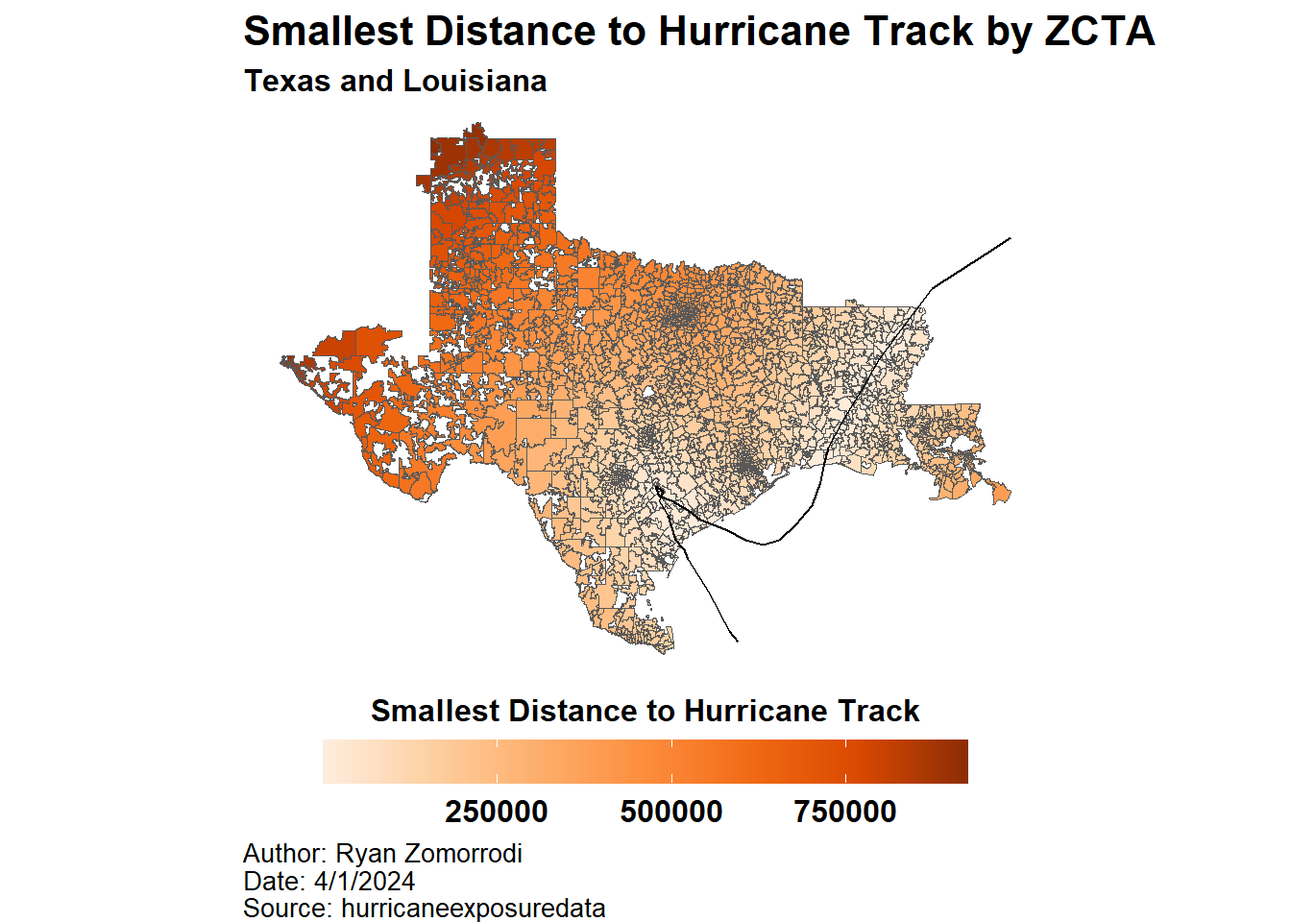
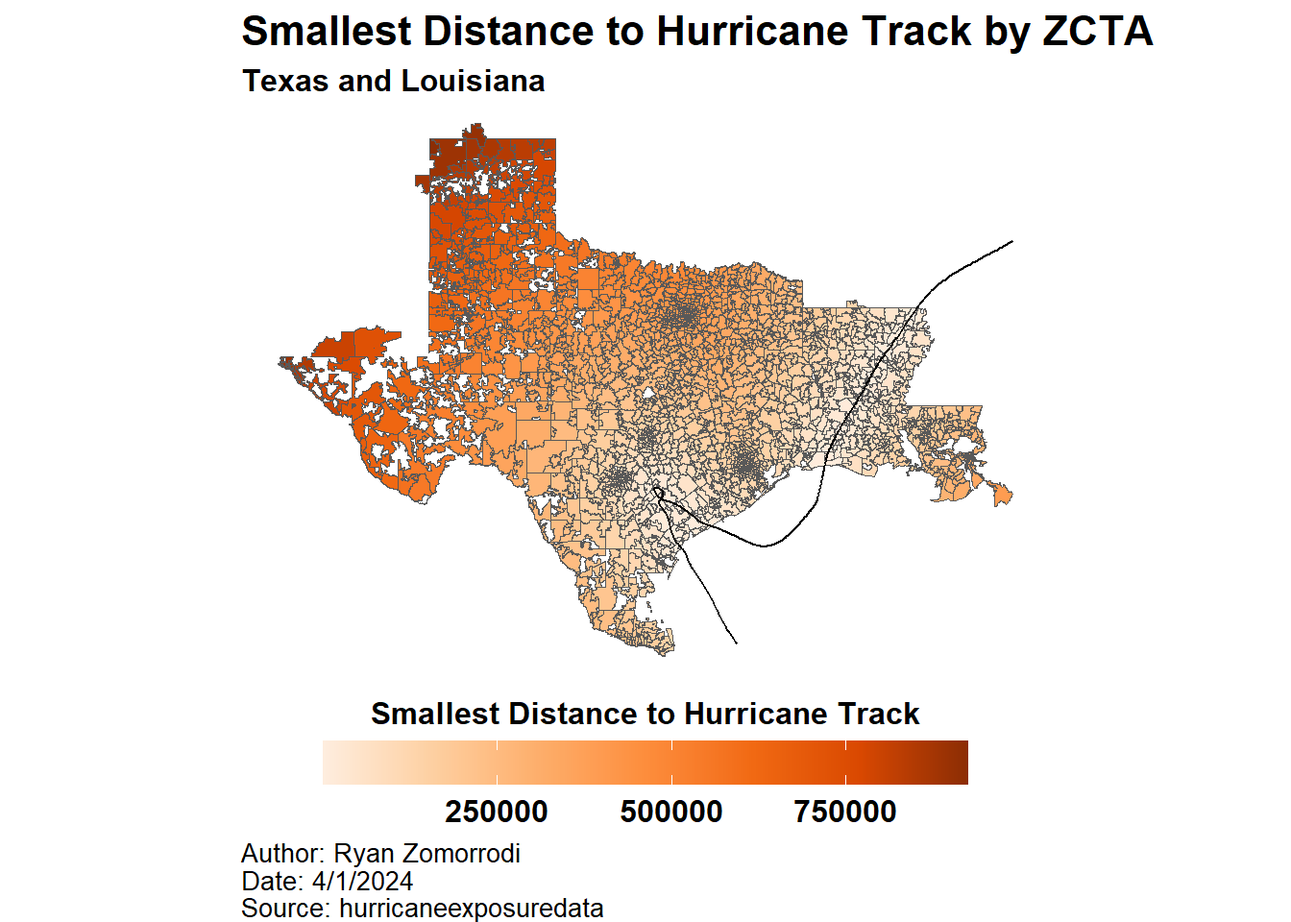
updates to distance, prcp, and wind calculations

diff --git a/docs/wind.html b/docs/wind.html
@@ -2,7 +2,7 @@
 <html xmlns="http://www.w3.org/1999/xhtml" lang="en" xml:lang="en"><head>
 
 <meta charset="utf-8">
-<meta name="generator" content="quarto-1.4.551">
+<meta name="generator" content="quarto-1.4.552">
 
 <meta name="viewport" content="width=device-width, initial-scale=1.0, user-scalable=yes">
 
@@ -244,7 +244,7 @@ pre > code.sourceCode > span > a:first-child::before { text-decoration: underlin
 <li>Then, the ZCTAs were joined to the <a href="https://www2.census.gov/geo/docs/maps-data/data/rel/zcta_county_rel_10.txt">US Census ZCTA to County Crosswalk</a> in order to identify Texas and Louisiana ZCTAs</li>
 <li>The ZCTAs were filtered to Texas and Louisiana</li>
 <li>Geometrics centroids were calculated for each ZCTA</li>
-<li>The <code>get_grid_winds</code> command was used to calculate wind exposure for each centroid. It works by
+<li>The <code>calc_grid_winds</code> and <code>summarize_grid_winds</code> commands were used to calculate wind exposure for each centroid. It works by
 <ol type="a">
 <li>Imputing the hurricane track to every 15 minutes</li>
 <li>Adding the wind radii from the <a href="https://www.nhc.noaa.gov/data/">HURDAT2</a></li>
@@ -256,10 +256,10 @@ pre > code.sourceCode > span > a:first-child::before { text-decoration: underlin
 <section id="output" class="level2" data-number="2.3">
 <h2 data-number="2.3" class="anchored" data-anchor-id="output"><span class="header-section-number">2.3</span> Output</h2>
 <ul>
-<li><code>TXLA_ZCTA_AL092017_stormwindmodel.parquet</code>
+<li><code>TXLA_ZCTA_AL092017_stormwindmodel</code>
 <ul>
 <li><strong>GEOID</strong> - ZCTA</li>
-<li><strong>date_time_max_wind</strong> - date &amp; time where maximum wind was sustained</li>
+<li><strong>date_time_max_wind</strong> - UTC date &amp; time where maximum wind was sustained</li>
 <li><strong>vmax_sust</strong> - Maximum 10-m 1-min sustained wind for the tropical cyclone (m/s)</li>
 <li><strong>vmax_gust</strong> - Max 10-m 1-min gust wind experienced at grid point (m/s)</li>
 <li><strong>sust_dur</strong> - Duration of time a certain sustained wind was experienced at grid point (minutes)</li>
@@ -307,8 +307,7 @@ pre > code.sourceCode > span > a:first-child::before { text-decoration: underlin
 <span id="cb2-22"><a href="#cb2-22" aria-hidden="true" tabindex="-1"></a>    <span class="at">glon =</span> <span class="fu">map_dbl</span>(geometry, <span class="cf">function</span>(geo) <span class="fu">st_coordinates</span>(geo)[[<span class="dv">1</span>]]),</span>
 <span id="cb2-23"><a href="#cb2-23" aria-hidden="true" tabindex="-1"></a>    <span class="at">glandsea =</span> <span class="fu">as.logical</span>(<span class="dv">1</span>)) <span class="sc">%&gt;%</span></span>
 <span id="cb2-24"><a href="#cb2-24" aria-hidden="true" tabindex="-1"></a>  <span class="fu">select</span>(gridid, glat, glon, glandsea) <span class="sc">%&gt;%</span></span>
-<span id="cb2-25"><a href="#cb2-25" aria-hidden="true" tabindex="-1"></a>  <span class="fu">st_drop_geometry</span>() <span class="sc">%&gt;%</span></span>
-<span id="cb2-26"><a href="#cb2-26" aria-hidden="true" tabindex="-1"></a>  <span class="fu">filter</span>(<span class="sc">!</span><span class="fu">is.na</span>(glat))</span></code><button title="Copy to Clipboard" class="code-copy-button"><i class="bi"></i></button></pre></div>
+<span id="cb2-25"><a href="#cb2-25" aria-hidden="true" tabindex="-1"></a>  <span class="fu">st_drop_geometry</span>()</span></code><button title="Copy to Clipboard" class="code-copy-button"><i class="bi"></i></button></pre></div>
 </div>
 <p>Geo-centroids</p>
 <div class="cell">
@@ -326,21 +325,44 @@ pre > code.sourceCode > span > a:first-child::before { text-decoration: underlin
 </div>
 <p>Calculated wind exposure</p>
 <div class="cell">
-<div class="sourceCode cell-code" id="cb4"><pre class="sourceCode r code-with-copy"><code class="sourceCode r"><span id="cb4-1"><a href="#cb4-1" aria-hidden="true" tabindex="-1"></a>AL092017_winds <span class="ot">&lt;-</span> <span class="fu">get_grid_winds</span>(<span class="at">hurr_track =</span> AL092017_track, </span>
-<span id="cb4-2"><a href="#cb4-2" aria-hidden="true" tabindex="-1"></a>  <span class="at">grid_df =</span> ZCTAs_centers_df) <span class="sc">%&gt;%</span></span>
-<span id="cb4-3"><a href="#cb4-3" aria-hidden="true" tabindex="-1"></a>  <span class="fu">rename</span>(<span class="at">GEOID =</span> gridid)</span></code><button title="Copy to Clipboard" class="code-copy-button"><i class="bi"></i></button></pre></div>
+<div class="sourceCode cell-code" id="cb4"><pre class="sourceCode r code-with-copy"><code class="sourceCode r"><span id="cb4-1"><a href="#cb4-1" aria-hidden="true" tabindex="-1"></a>AL092017_grid_winds <span class="ot">&lt;-</span> <span class="fu">calc_grid_winds</span>(<span class="at">hurr_track =</span> AL092017_track, </span>
+<span id="cb4-2"><a href="#cb4-2" aria-hidden="true" tabindex="-1"></a>  <span class="at">grid_df =</span> ZCTAs_centers_df) </span>
+<span id="cb4-3"><a href="#cb4-3" aria-hidden="true" tabindex="-1"></a></span>
+<span id="cb4-4"><a href="#cb4-4" aria-hidden="true" tabindex="-1"></a><span class="co"># parsing error was present in the package's code</span></span>
+<span id="cb4-5"><a href="#cb4-5" aria-hidden="true" tabindex="-1"></a>summarize_grid_winds_fix <span class="ot">&lt;-</span> <span class="cf">function</span> (grid_winds, <span class="at">gust_duration_cut =</span> <span class="dv">20</span>, <span class="at">sust_duration_cut =</span> <span class="dv">20</span>, </span>
+<span id="cb4-6"><a href="#cb4-6" aria-hidden="true" tabindex="-1"></a>    <span class="at">tint =</span> <span class="fl">0.25</span>) {</span>
+<span id="cb4-7"><a href="#cb4-7" aria-hidden="true" tabindex="-1"></a>    calc_sust_dur <span class="ot">&lt;-</span> <span class="cf">function</span>(wind) {</span>
+<span id="cb4-8"><a href="#cb4-8" aria-hidden="true" tabindex="-1"></a>        <span class="dv">60</span> <span class="sc">*</span> tint <span class="sc">*</span> <span class="fu">sum</span>(wind <span class="sc">&gt;</span> sust_duration_cut, <span class="at">na.rm =</span> <span class="cn">TRUE</span>)</span>
+<span id="cb4-9"><a href="#cb4-9" aria-hidden="true" tabindex="-1"></a>    }</span>
+<span id="cb4-10"><a href="#cb4-10" aria-hidden="true" tabindex="-1"></a>    calc_gust_dur <span class="ot">&lt;-</span> <span class="cf">function</span>(wind) {</span>
+<span id="cb4-11"><a href="#cb4-11" aria-hidden="true" tabindex="-1"></a>        <span class="dv">60</span> <span class="sc">*</span> tint <span class="sc">*</span> <span class="fu">sum</span>(wind <span class="sc">&gt;</span> gust_duration_cut, <span class="at">na.rm =</span> <span class="cn">TRUE</span>)</span>
+<span id="cb4-12"><a href="#cb4-12" aria-hidden="true" tabindex="-1"></a>    }</span>
+<span id="cb4-13"><a href="#cb4-13" aria-hidden="true" tabindex="-1"></a>    grid_wind_summary <span class="ot">&lt;-</span> tibble<span class="sc">::</span><span class="fu">tibble</span>(<span class="at">gridid =</span> <span class="fu">colnames</span>(grid_winds),</span>
+<span id="cb4-14"><a href="#cb4-14" aria-hidden="true" tabindex="-1"></a>        <span class="at">date_time_max_wind =</span> <span class="fu">rownames</span>(grid_winds)[<span class="fu">apply</span>(grid_winds,</span>
+<span id="cb4-15"><a href="#cb4-15" aria-hidden="true" tabindex="-1"></a>            <span class="at">MARGIN =</span> <span class="dv">2</span>, <span class="at">FUN =</span> which.max)], <span class="at">vmax_sust =</span> <span class="fu">apply</span>(grid_winds,</span>
+<span id="cb4-16"><a href="#cb4-16" aria-hidden="true" tabindex="-1"></a>            <span class="at">MARGIN =</span> <span class="dv">2</span>, <span class="at">FUN =</span> max, <span class="at">na.rm =</span> <span class="cn">TRUE</span>), <span class="at">vmax_gust =</span> .data<span class="sc">$</span>vmax_sust <span class="sc">*</span></span>
+<span id="cb4-17"><a href="#cb4-17" aria-hidden="true" tabindex="-1"></a>            <span class="fl">1.49</span>, <span class="at">sust_dur =</span> <span class="fu">apply</span>(grid_winds, <span class="at">MARGIN =</span> <span class="dv">2</span>, <span class="at">FUN =</span> calc_sust_dur),</span>
+<span id="cb4-18"><a href="#cb4-18" aria-hidden="true" tabindex="-1"></a>        <span class="at">gust_dur =</span> <span class="fu">apply</span>(grid_winds, <span class="at">MARGIN =</span> <span class="dv">2</span>, <span class="at">FUN =</span> calc_gust_dur)) <span class="sc">%&gt;%</span></span>
+<span id="cb4-19"><a href="#cb4-19" aria-hidden="true" tabindex="-1"></a>        dplyr<span class="sc">::</span><span class="fu">mutate</span>(<span class="at">date_time_max_wind =</span> <span class="fu">ifelse</span>(.data<span class="sc">$</span>vmax_sust <span class="sc">==</span></span>
+<span id="cb4-20"><a href="#cb4-20" aria-hidden="true" tabindex="-1"></a>            <span class="dv">0</span>, <span class="cn">NA</span>, .data<span class="sc">$</span>date_time_max_wind))</span>
+<span id="cb4-21"><a href="#cb4-21" aria-hidden="true" tabindex="-1"></a>    <span class="fu">return</span>(grid_wind_summary)</span>
+<span id="cb4-22"><a href="#cb4-22" aria-hidden="true" tabindex="-1"></a>}</span>
+<span id="cb4-23"><a href="#cb4-23" aria-hidden="true" tabindex="-1"></a></span>
+<span id="cb4-24"><a href="#cb4-24" aria-hidden="true" tabindex="-1"></a>AL092017_winds <span class="ot">&lt;-</span> <span class="fu">summarize_grid_winds_fix</span>(AL092017_grid_winds<span class="sc">$</span>vmax_sust) <span class="sc">%&gt;%</span></span>
+<span id="cb4-25"><a href="#cb4-25" aria-hidden="true" tabindex="-1"></a>  <span class="fu">rename</span>(<span class="at">GEOID =</span> gridid)</span></code><button title="Copy to Clipboard" class="code-copy-button"><i class="bi"></i></button></pre></div>
 </div>
 <div class="cell">
 <div class="sourceCode cell-code" id="cb5"><pre class="sourceCode r code-with-copy"><code class="sourceCode r"><span id="cb5-1"><a href="#cb5-1" aria-hidden="true" tabindex="-1"></a>AL092017_winds_sf <span class="ot">&lt;-</span> AL092017_winds <span class="sc">%&gt;%</span></span>
 <span id="cb5-2"><a href="#cb5-2" aria-hidden="true" tabindex="-1"></a>  <span class="fu">left_join</span>(<span class="fu">zctas</span>(<span class="at">cb =</span> <span class="cn">FALSE</span>, <span class="at">year =</span> <span class="dv">2017</span>), <span class="at">by =</span> <span class="fu">join_by</span>(GEOID <span class="sc">==</span> GEOID10)) <span class="sc">%&gt;%</span></span>
 <span id="cb5-3"><a href="#cb5-3" aria-hidden="true" tabindex="-1"></a>  <span class="fu">st_as_sf</span>() <span class="sc">%&gt;%</span></span>
-<span id="cb5-4"><a href="#cb5-4" aria-hidden="true" tabindex="-1"></a>  <span class="fu">select</span>(<span class="sc">-</span><span class="fu">c</span>(ZCTA5CE10, CLASSFP10, MTFCC10, FUNCSTAT10, ALAND10, AWATER10, INTPTLAT10, INTPTLON10))</span></code><button title="Copy to Clipboard" class="code-copy-button"><i class="bi"></i></button></pre></div>
+<span id="cb5-4"><a href="#cb5-4" aria-hidden="true" tabindex="-1"></a>  <span class="fu">mutate</span>(<span class="at">date_time_max_wind =</span> <span class="fu">as_datetime</span>(date_time_max_wind)) <span class="sc">%&gt;%</span></span>
+<span id="cb5-5"><a href="#cb5-5" aria-hidden="true" tabindex="-1"></a>  <span class="fu">select</span>(<span class="sc">-</span><span class="fu">c</span>(ZCTA5CE10, CLASSFP10, MTFCC10, FUNCSTAT10, ALAND10, AWATER10, INTPTLAT10, INTPTLON10))</span></code><button title="Copy to Clipboard" class="code-copy-button"><i class="bi"></i></button></pre></div>
 </div>
 <p>Plotted wind measures</p>
 <div class="cell">
 <div class="sourceCode cell-code" id="cb6"><pre class="sourceCode r code-with-copy"><code class="sourceCode r"><span id="cb6-1"><a href="#cb6-1" aria-hidden="true" tabindex="-1"></a><span class="fu">library</span>(gridExtra)</span>
 <span id="cb6-2"><a href="#cb6-2" aria-hidden="true" tabindex="-1"></a></span>
-<span id="cb6-3"><a href="#cb6-3" aria-hidden="true" tabindex="-1"></a>output_maps <span class="ot">&lt;-</span> <span class="fu">c</span>(<span class="st">"vmax_sust"</span>, <span class="st">"vmax_gust"</span>, <span class="st">"sust_dur"</span>, <span class="st">"gust_dur"</span>) <span class="sc">%&gt;%</span></span>
+<span id="cb6-3"><a href="#cb6-3" aria-hidden="true" tabindex="-1"></a>output_maps <span class="ot">&lt;-</span> <span class="fu">c</span>(<span class="st">"vmax_sust"</span>, <span class="st">"vmax_gust"</span>, <span class="st">"sust_dur"</span>, <span class="st">"gust_dur"</span>, <span class="st">"date_time_max_wind"</span>) <span class="sc">%&gt;%</span></span>
 <span id="cb6-4"><a href="#cb6-4" aria-hidden="true" tabindex="-1"></a>  <span class="fu">map</span>(<span class="sc">~</span></span>
 <span id="cb6-5"><a href="#cb6-5" aria-hidden="true" tabindex="-1"></a>    AL092017_winds_sf <span class="sc">%&gt;%</span></span>
 <span id="cb6-6"><a href="#cb6-6" aria-hidden="true" tabindex="-1"></a>      <span class="fu">ggplot</span>() <span class="sc">+</span></span>
@@ -358,10 +380,16 @@ pre > code.sourceCode > span > a:first-child::before { text-decoration: underlin
 </div>
 </div>
 <div class="cell">
-<div class="sourceCode cell-code" id="cb7"><pre class="sourceCode r code-with-copy"><code class="sourceCode r"><span id="cb7-1"><a href="#cb7-1" aria-hidden="true" tabindex="-1"></a><span class="fu">library</span>(arrow)</span>
+<div class="sourceCode cell-code" id="cb7"><pre class="sourceCode r code-with-copy"><code class="sourceCode r"><span id="cb7-1"><a href="#cb7-1" aria-hidden="true" tabindex="-1"></a><span class="co"># output: false</span></span>
 <span id="cb7-2"><a href="#cb7-2" aria-hidden="true" tabindex="-1"></a></span>
 <span id="cb7-3"><a href="#cb7-3" aria-hidden="true" tabindex="-1"></a>AL092017_winds <span class="sc">%&gt;%</span></span>
-<span id="cb7-4"><a href="#cb7-4" aria-hidden="true" tabindex="-1"></a>  <span class="fu">write_parquet</span>(<span class="st">"output/TXLA_ZCTA_stormwindmodel.parquet"</span>)</span></code><button title="Copy to Clipboard" class="code-copy-button"><i class="bi"></i></button></pre></div>
+<span id="cb7-4"><a href="#cb7-4" aria-hidden="true" tabindex="-1"></a>  <span class="fu">st_write</span>(<span class="st">"output/TXLA_ZCTA_stormwindmodel.gpkg"</span>, <span class="st">"TXLA_ZCTA_stormwindmodel"</span>, <span class="at">append =</span> <span class="cn">FALSE</span>)</span></code><button title="Copy to Clipboard" class="code-copy-button"><i class="bi"></i></button></pre></div>
+<div class="cell-output cell-output-stdout">
+<pre><code>Deleting layer `TXLA_ZCTA_stormwindmodel' using driver `GPKG'
+Writing layer `TXLA_ZCTA_stormwindmodel' to data source 
+  `output/TXLA_ZCTA_stormwindmodel.gpkg' using driver `GPKG'
+Writing 2455 features with 6 fields without geometries.</code></pre>
+</div>
 </div>
 
 

diff --git a/docs/distance.html b/docs/distance.html
@@ -2,7 +2,7 @@
 <html xmlns="http://www.w3.org/1999/xhtml" lang="en" xml:lang="en"><head>
 
 <meta charset="utf-8">
-<meta name="generator" content="quarto-1.4.551">
+<meta name="generator" content="quarto-1.4.552">
 
 <meta name="viewport" content="width=device-width, initial-scale=1.0, user-scalable=yes">
 
@@ -237,37 +237,41 @@ pre > code.sourceCode > span > a:first-child::before { text-decoration: underlin
 <h2 data-number="4.2" class="anchored" data-anchor-id="data-processing"><span class="header-section-number">4.2</span> Data Processing</h2>
 <ol type="1">
 <li>Hurricane data was downloaded using <code>hurricaneexposuredata</code> package using the <code>data("hurr_tracks")</code> command and filtered using the Harvey Automated Tropical Cyclone Forecasting code (AL092017)</li>
+<li>Hurricane track was imputed to every 15 minutes using <code>create_full_track</code> from the <code>stormwindmodel</code> package.</li>
 <li>Separately, 2017 ZCTAs downloaded from the <a href="https://www.census.gov/geographies/mapping-files/time-series/geo/carto-boundary-file.2017.html#list-tab-1556094155">US Census Cartographic Boundary Files</a></li>
 <li>Then, the ZCTAs were joined to the <a href="https://www2.census.gov/geo/docs/maps-data/data/rel/zcta_county_rel_10.txt">US Census ZCTA to County Crosswalk</a> in order to identify Texas and Louisiana ZCTAs</li>
 <li>The ZCTAs were filtered to Texas and Louisiana</li>
 <li>ZCTA geo centroid were calculated</li>
-<li>The shortest distance from the geo centroid for each ZCTA to the hurricane track is calculated</li>
+<li>The distance from geo-centroid of each ZCTA to closest point on imputed track and time when imputed track was closest were calculated</li>
 </ol>
 </section>
 <section id="output" class="level2" data-number="4.3">
 <h2 data-number="4.3" class="anchored" data-anchor-id="output"><span class="header-section-number">4.3</span> Output</h2>
 <ul>
-<li><code>TXLA_ZCTA_dist2track.parquet</code>
+<li><code>TXLA_ZCTA_dist2track</code>
 <ul>
 <li><strong>GEOID</strong> - ZCTA GEOID</li>
-<li><strong>dist2track</strong> - Distance from geo-centroid to track (meters)</li>
+<li><strong>dist2track</strong> - Distance from geo-centroid to closest point on imputed track (meters)</li>
+<li><strong>dateTime</strong> - UTC date and time where geo-centroid is closest to imputed track</li>
 </ul></li>
 </ul>
-<p>Downloaded hurricane track for Hurricane Harvey</p>
+<p>Download, filter, and impute hurricane tract</p>
 <div class="cell">
-<div class="sourceCode cell-code" id="cb1"><pre class="sourceCode r code-with-copy"><code class="sourceCode r"><span id="cb1-1"><a href="#cb1-1" aria-hidden="true" tabindex="-1"></a><span class="fu">library</span>(hurricaneexposuredata)</span>
+<div class="sourceCode cell-code" id="cb1"><pre class="sourceCode r code-with-copy"><code class="sourceCode r"><span id="cb1-1"><a href="#cb1-1" aria-hidden="true" tabindex="-1"></a><span class="fu">library</span>(tidyverse)</span>
 <span id="cb1-2"><a href="#cb1-2" aria-hidden="true" tabindex="-1"></a><span class="fu">library</span>(sf)</span>
-<span id="cb1-3"><a href="#cb1-3" aria-hidden="true" tabindex="-1"></a><span class="fu">library</span>(tidyverse)</span>
+<span id="cb1-3"><a href="#cb1-3" aria-hidden="true" tabindex="-1"></a><span class="fu">library</span>(hurricaneexposure)</span>
 <span id="cb1-4"><a href="#cb1-4" aria-hidden="true" tabindex="-1"></a></span>
-<span id="cb1-5"><a href="#cb1-5" aria-hidden="true" tabindex="-1"></a><span class="fu">data</span>(<span class="st">"hurr_tracks"</span>)</span>
+<span id="cb1-5"><a href="#cb1-5" aria-hidden="true" tabindex="-1"></a><span class="fu">data</span>(hurr_tracks, <span class="at">package =</span> <span class="st">"hurricaneexposuredata"</span>)</span>
 <span id="cb1-6"><a href="#cb1-6" aria-hidden="true" tabindex="-1"></a></span>
 <span id="cb1-7"><a href="#cb1-7" aria-hidden="true" tabindex="-1"></a>AL092017_track <span class="ot">&lt;-</span> hurr_tracks <span class="sc">%&gt;%</span></span>
 <span id="cb1-8"><a href="#cb1-8" aria-hidden="true" tabindex="-1"></a>  <span class="fu">filter</span>(usa_atcf_id <span class="sc">==</span> <span class="st">"AL092017"</span>) <span class="sc">%&gt;%</span></span>
-<span id="cb1-9"><a href="#cb1-9" aria-hidden="true" tabindex="-1"></a>  <span class="fu">mutate</span>(<span class="at">date =</span> <span class="fu">as_datetime</span>(date, <span class="at">format =</span> <span class="st">"%Y%m%d%H%M"</span>)) <span class="sc">%&gt;%</span></span>
+<span id="cb1-9"><a href="#cb1-9" aria-hidden="true" tabindex="-1"></a>  <span class="fu">create_full_track</span>() <span class="sc">%&gt;%</span></span>
 <span id="cb1-10"><a href="#cb1-10" aria-hidden="true" tabindex="-1"></a>  <span class="fu">arrange</span>(date) <span class="sc">%&gt;%</span></span>
-<span id="cb1-11"><a href="#cb1-11" aria-hidden="true" tabindex="-1"></a>  <span class="fu">st_as_sf</span>(<span class="at">coords =</span> <span class="fu">c</span>(<span class="st">"longitude"</span>, <span class="st">"latitude"</span>), <span class="at">crs =</span> <span class="st">"epsg:4269"</span>) <span class="sc">%&gt;%</span></span>
-<span id="cb1-12"><a href="#cb1-12" aria-hidden="true" tabindex="-1"></a>  <span class="fu">st_combine</span>() <span class="sc">%&gt;%</span></span>
-<span id="cb1-13"><a href="#cb1-13" aria-hidden="true" tabindex="-1"></a>  <span class="fu">st_cast</span>(<span class="st">"LINESTRING"</span>)</span></code><button title="Copy to Clipboard" class="code-copy-button"><i class="bi"></i></button></pre></div>
+<span id="cb1-11"><a href="#cb1-11" aria-hidden="true" tabindex="-1"></a>  <span class="fu">st_as_sf</span>(<span class="at">coords =</span> <span class="fu">c</span>(<span class="st">"tclon"</span>, <span class="st">"tclat"</span>), <span class="at">crs =</span> <span class="st">"epsg:4269"</span>)</span>
+<span id="cb1-12"><a href="#cb1-12" aria-hidden="true" tabindex="-1"></a></span>
+<span id="cb1-13"><a href="#cb1-13" aria-hidden="true" tabindex="-1"></a>AL092017_track_line <span class="ot">&lt;-</span> AL092017_track <span class="sc">%&gt;%</span></span>
+<span id="cb1-14"><a href="#cb1-14" aria-hidden="true" tabindex="-1"></a>  <span class="fu">st_combine</span>() <span class="sc">%&gt;%</span></span>
+<span id="cb1-15"><a href="#cb1-15" aria-hidden="true" tabindex="-1"></a>  <span class="fu">st_cast</span>(<span class="st">"LINESTRING"</span>)</span></code><button title="Copy to Clipboard" class="code-copy-button"><i class="bi"></i></button></pre></div>
 </div>
 <p>Downloaded ZCTA shapefiles and calculated centroids</p>
 <div class="cell">
@@ -290,10 +294,18 @@ pre > code.sourceCode > span > a:first-child::before { text-decoration: underlin
 </div>
 <p>Calculated shortest distance to track from geo centroids</p>
 <div class="cell">
-<div class="sourceCode cell-code" id="cb3"><pre class="sourceCode r code-with-copy"><code class="sourceCode r"><span id="cb3-1"><a href="#cb3-1" aria-hidden="true" tabindex="-1"></a>TXLA_dist2track <span class="ot">&lt;-</span> ZCTAs_center <span class="sc">%&gt;%</span></span>
-<span id="cb3-2"><a href="#cb3-2" aria-hidden="true" tabindex="-1"></a>  <span class="fu">bind_cols</span>(<span class="fu">st_distance</span>(., AL092017_track)) <span class="sc">%&gt;%</span></span>
-<span id="cb3-3"><a href="#cb3-3" aria-hidden="true" tabindex="-1"></a>  <span class="fu">rename</span>(<span class="at">dist2track =</span> <span class="st">`</span><span class="at">...3</span><span class="st">`</span>) <span class="sc">%&gt;%</span></span>
-<span id="cb3-4"><a href="#cb3-4" aria-hidden="true" tabindex="-1"></a>  <span class="fu">st_drop_geometry</span>()</span></code><button title="Copy to Clipboard" class="code-copy-button"><i class="bi"></i></button></pre></div>
+<div class="sourceCode cell-code" id="cb3"><pre class="sourceCode r code-with-copy"><code class="sourceCode r"><span id="cb3-1"><a href="#cb3-1" aria-hidden="true" tabindex="-1"></a>TXLA_dist2track <span class="ot">&lt;-</span> <span class="fu">st_join</span>(ZCTAs_center, AL092017_track, <span class="at">join =</span> st_nearest_feature) <span class="sc">%&gt;%</span></span>
+<span id="cb3-2"><a href="#cb3-2" aria-hidden="true" tabindex="-1"></a>  <span class="fu">rename</span>(<span class="at">dateTime =</span> date) <span class="sc">%&gt;%</span></span>
+<span id="cb3-3"><a href="#cb3-3" aria-hidden="true" tabindex="-1"></a>  <span class="fu">rowwise</span>() <span class="sc">%&gt;%</span></span>
+<span id="cb3-4"><a href="#cb3-4" aria-hidden="true" tabindex="-1"></a>  <span class="fu">mutate</span>(<span class="at">est_track_point =</span> </span>
+<span id="cb3-5"><a href="#cb3-5" aria-hidden="true" tabindex="-1"></a>    AL092017_track <span class="sc">%&gt;%</span></span>
+<span id="cb3-6"><a href="#cb3-6" aria-hidden="true" tabindex="-1"></a>      <span class="fu">filter</span>(date <span class="sc">==</span> dateTime) <span class="sc">%&gt;%</span></span>
+<span id="cb3-7"><a href="#cb3-7" aria-hidden="true" tabindex="-1"></a>      <span class="fu">st_geometry</span>()</span>
+<span id="cb3-8"><a href="#cb3-8" aria-hidden="true" tabindex="-1"></a>  ) <span class="sc">%&gt;%</span></span>
+<span id="cb3-9"><a href="#cb3-9" aria-hidden="true" tabindex="-1"></a>  <span class="fu">mutate</span>(<span class="at">dist2track =</span> <span class="fu">st_distance</span>(geometry, est_track_point)) <span class="sc">%&gt;%</span></span>
+<span id="cb3-10"><a href="#cb3-10" aria-hidden="true" tabindex="-1"></a>  <span class="fu">mutate</span>(<span class="at">dist2track =</span> <span class="fu">as.numeric</span>(dist2track)) <span class="sc">%&gt;%</span></span>
+<span id="cb3-11"><a href="#cb3-11" aria-hidden="true" tabindex="-1"></a>  <span class="fu">st_drop_geometry</span>() <span class="sc">%&gt;%</span></span>
+<span id="cb3-12"><a href="#cb3-12" aria-hidden="true" tabindex="-1"></a>  <span class="fu">select</span>(GEOID, dateTime, dist2track)</span></code><button title="Copy to Clipboard" class="code-copy-button"><i class="bi"></i></button></pre></div>
 </div>
 <div class="cell">
 <div class="sourceCode cell-code" id="cb4"><pre class="sourceCode r code-with-copy"><code class="sourceCode r"><span id="cb4-1"><a href="#cb4-1" aria-hidden="true" tabindex="-1"></a>TXLA_dist2track <span class="sc">%&gt;%</span></span>
@@ -301,7 +313,7 @@ pre > code.sourceCode > span > a:first-child::before { text-decoration: underlin
 <span id="cb4-3"><a href="#cb4-3" aria-hidden="true" tabindex="-1"></a>  <span class="fu">st_as_sf</span>() <span class="sc">%&gt;%</span></span>
 <span id="cb4-4"><a href="#cb4-4" aria-hidden="true" tabindex="-1"></a>  <span class="fu">ggplot</span>() <span class="sc">+</span></span>
 <span id="cb4-5"><a href="#cb4-5" aria-hidden="true" tabindex="-1"></a>    <span class="fu">geom_sf</span>(<span class="fu">aes</span>(<span class="at">fill =</span> dist2track)) <span class="sc">+</span></span>
-<span id="cb4-6"><a href="#cb4-6" aria-hidden="true" tabindex="-1"></a>    <span class="fu">geom_sf</span>(<span class="at">data =</span> <span class="fu">st_crop</span>(AL092017_track, <span class="fu">st_bbox</span>(ZCTAs_sf))) <span class="sc">+</span></span>
+<span id="cb4-6"><a href="#cb4-6" aria-hidden="true" tabindex="-1"></a>    <span class="fu">geom_sf</span>(<span class="at">data =</span> <span class="fu">st_crop</span>(AL092017_track_line, ZCTAs_sf)) <span class="sc">+</span></span>
 <span id="cb4-7"><a href="#cb4-7" aria-hidden="true" tabindex="-1"></a>    <span class="fu">coord_sf</span>(<span class="at">datum =</span> <span class="st">"ESRI:102003"</span>) <span class="sc">+</span></span>
 <span id="cb4-8"><a href="#cb4-8" aria-hidden="true" tabindex="-1"></a>    <span class="fu">scale_fill_distiller</span>(</span>
 <span id="cb4-9"><a href="#cb4-9" aria-hidden="true" tabindex="-1"></a>      <span class="at">palette =</span> <span class="st">"Oranges"</span>,</span>
@@ -333,10 +345,15 @@ pre > code.sourceCode > span > a:first-child::before { text-decoration: underlin
 </div>
 </div>
 <div class="cell">
-<div class="sourceCode cell-code" id="cb5"><pre class="sourceCode r code-with-copy"><code class="sourceCode r"><span id="cb5-1"><a href="#cb5-1" aria-hidden="true" tabindex="-1"></a><span class="fu">library</span>(arrow)</span>
+<div class="sourceCode cell-code" id="cb5"><pre class="sourceCode r code-with-copy"><code class="sourceCode r"><span id="cb5-1"><a href="#cb5-1" aria-hidden="true" tabindex="-1"></a><span class="co"># output: false</span></span>
 <span id="cb5-2"><a href="#cb5-2" aria-hidden="true" tabindex="-1"></a></span>
 <span id="cb5-3"><a href="#cb5-3" aria-hidden="true" tabindex="-1"></a>TXLA_dist2track <span class="sc">%&gt;%</span></span>
-<span id="cb5-4"><a href="#cb5-4" aria-hidden="true" tabindex="-1"></a>  <span class="fu">write_parquet</span>(<span class="st">"output/TXLA_ZCTA_dist2track.parquet"</span>)</span></code><button title="Copy to Clipboard" class="code-copy-button"><i class="bi"></i></button></pre></div>
+<span id="cb5-4"><a href="#cb5-4" aria-hidden="true" tabindex="-1"></a>  <span class="fu">st_write</span>(<span class="st">"output/TXLA_ZCTA_dist2track.gpkg"</span>, <span class="st">"TXLA_ZCTA_dist2track"</span>, <span class="at">append =</span> <span class="cn">FALSE</span>)</span></code><button title="Copy to Clipboard" class="code-copy-button"><i class="bi"></i></button></pre></div>
+<div class="cell-output cell-output-stdout">
+<pre><code>Writing layer `TXLA_ZCTA_dist2track' to data source 
+  `output/TXLA_ZCTA_dist2track.gpkg' using driver `GPKG'
+Writing 2455 features with 3 fields without geometries.</code></pre>
+</div>
 </div>
 
 

diff --git a/docs/precipitation.html b/docs/precipitation.html
@@ -2,7 +2,7 @@
 <html xmlns="http://www.w3.org/1999/xhtml" lang="en" xml:lang="en"><head>
 
 <meta charset="utf-8">
-<meta name="generator" content="quarto-1.4.551">
+<meta name="generator" content="quarto-1.4.552">
 
 <meta name="viewport" content="width=device-width, initial-scale=1.0, user-scalable=yes">
 
@@ -253,7 +253,7 @@ pre > code.sourceCode > span > a:first-child::before { text-decoration: underlin
 <section id="output" class="level2" data-number="3.3">
 <h2 data-number="3.3" class="anchored" data-anchor-id="output"><span class="header-section-number">3.3</span> Output</h2>
 <ul>
-<li><code>TXLA_ZCTA_PRCPpred.parquet</code>
+<li><code>TXLA_ZCTA_PRCPpred</code>
 <ul>
 <li><strong>GEOID</strong> - ZCTA GEOID</li>
 <li><strong>DATE</strong> - Date (YYYY-MM-DD)</li>
@@ -395,11 +395,16 @@ pre > code.sourceCode > span > a:first-child::before { text-decoration: underlin
 <p>Stitched images into a gif</p>
 <p><img src="output/TXLA_ZCTA_PRCPpred.gif" class="img-fluid"></p>
 <div class="cell">
-<div class="sourceCode cell-code" id="cb6"><pre class="sourceCode r code-with-copy"><code class="sourceCode r"><span id="cb6-1"><a href="#cb6-1" aria-hidden="true" tabindex="-1"></a><span class="fu">library</span>(arrow)</span>
+<div class="sourceCode cell-code" id="cb6"><pre class="sourceCode r code-with-copy"><code class="sourceCode r"><span id="cb6-1"><a href="#cb6-1" aria-hidden="true" tabindex="-1"></a><span class="co"># output: false</span></span>
 <span id="cb6-2"><a href="#cb6-2" aria-hidden="true" tabindex="-1"></a></span>
 <span id="cb6-3"><a href="#cb6-3" aria-hidden="true" tabindex="-1"></a>TXLA_idw_preds <span class="sc">%&gt;%</span></span>
-<span id="cb6-4"><a href="#cb6-4" aria-hidden="true" tabindex="-1"></a>  <span class="fu">st_drop_geometry</span>() <span class="sc">%&gt;%</span></span>
-<span id="cb6-5"><a href="#cb6-5" aria-hidden="true" tabindex="-1"></a>  <span class="fu">write_parquet</span>(<span class="st">"output/TXLA_ZCTA_PRCPpred.parquet"</span>)</span></code><button title="Copy to Clipboard" class="code-copy-button"><i class="bi"></i></button></pre></div>
+<span id="cb6-4"><a href="#cb6-4" aria-hidden="true" tabindex="-1"></a>  <span class="fu">st_write</span>(<span class="st">"output/TXLA_ZCTA_PRCPpred.gpkg"</span>, <span class="st">"TXLA_ZCTA_PRCPpred"</span>, <span class="at">append =</span> <span class="cn">FALSE</span>)</span></code><button title="Copy to Clipboard" class="code-copy-button"><i class="bi"></i></button></pre></div>
+<div class="cell-output cell-output-stdout">
+<pre><code>Deleting layer `TXLA_ZCTA_PRCPpred' using driver `GPKG'
+Writing layer `TXLA_ZCTA_PRCPpred' to data source 
+  `output/TXLA_ZCTA_PRCPpred.gpkg' using driver `GPKG'
+Writing 149755 features with 3 fields and geometry type Multi Polygon.</code></pre>
+</div>
 </div>
 
 
